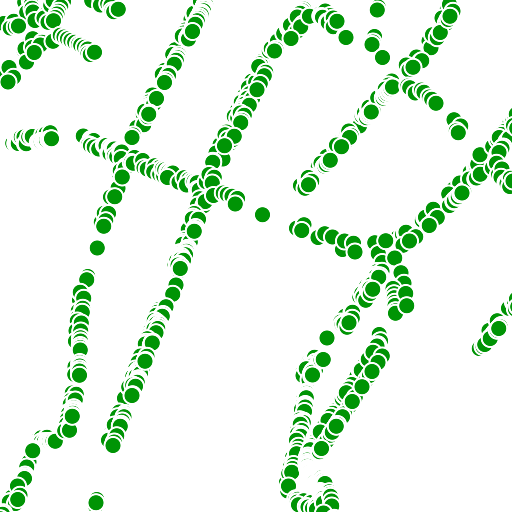
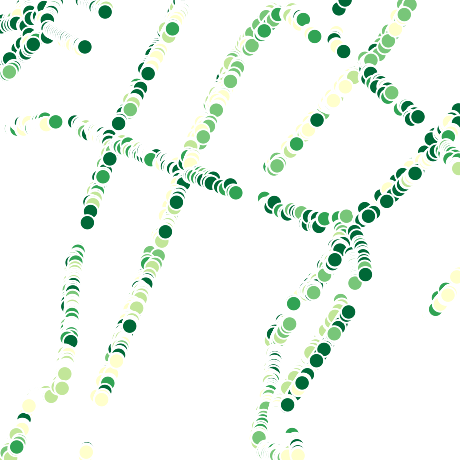
push

diff --git a/frontend/src/routes/map/data/entries/vector/mvt/polygon/plateau_lod2_mvt.ts b/frontend/src/routes/map/data/entries/vector/mvt/polygon/plateau_lod2_mvt.ts
@@ -1,5 +1,5 @@
-import { IMAGE_TILE_XYZ_SETS } from '$routes/constants';
-import { WEB_MERCATOR_JAPAN_BOUNDS, TOKYO_23KU_BBOX } from '$routes/map/data/location_bbox';
+import { MAP_IMAGE_BASE_PATH } from '$routes/constants';
+import { TOKYO_23KU_BBOX } from '$routes/map/data/location_bbox';
 
 import type { VectorEntry, TileMetaData } from '$routes/map/data/types/vector/index';
 
@@ -12,34 +12,35 @@ const entry: VectorEntry<TileMetaData> = {
 		url: 'https://indigo-lab.github.io/plateau-lod2-mvt/{z}/{x}/{y}.pbf'
 	},
 	metaData: {
-		name: '3D都市モデル（Project PLATEAU）東京都23区 LOD2',
+		name: '3D都市モデル 東京都23区 LOD2',
 		attribution: 'PLATEAU',
 		downloadUrl: 'https://github.com/indigo-lab/plateau-lod2-mvt?tab=readme-ov-file',
 		description:
 			'plateau-lod2-mvt by indigo-lab (国土交通省 Project PLATEAU のデータを加工して作成)',
 		location: '東京都',
-		tags: [],
+		tags: ['建物'],
 		minZoom: 10,
 		maxZoom: 16,
 		sourceLayer: 'bldg',
 		bounds: TOKYO_23KU_BBOX,
-		xyzImageTile: { x: 29099, y: 12902, z: 15 }
+		xyzImageTile: { x: 29099, y: 12902, z: 15 },
+		mapImage: `${MAP_IMAGE_BASE_PATH}/plateau_lod2_mvt.webp`
 	},
 	properties: {
 		keys: [],
 		titles: [
 			{
 				conditions: [],
-				template: '3D都市モデル（Project PLATEAU）東京都23区 LOD2'
+				template: '3D都市モデル 東京都23区 LOD2'
 			}
 		]
 	},
 	interaction: {
-		clickable: true
+		clickable: false
 	},
 	style: {
 		type: 'fill',
-		opacity: 0.7,
+		opacity: 1,
 		colors: {
 			key: '単色',
 			show: true,
@@ -49,7 +50,7 @@ const entry: VectorEntry<TileMetaData> = {
 					key: '単色',
 					name: '単色',
 					mapping: {
-						value: '#ff7f00',
+						value: '#a6cee3',
 						pattern: null
 					}
 				},
@@ -65,6 +66,23 @@ const entry: VectorEntry<TileMetaData> = {
 					}
 				}
 			]
+		},
+		extrusion: {
+			show: true,
+			height: {
+				key: 'z',
+				expressions: [
+					{
+						type: 'linear',
+						key: 'z',
+						name: '建物の高さ',
+						mapping: {
+							range: [0, 1000],
+							values: [0, 1000]
+						}
+					}
+				]
+			}
 		},
 		outline: {
 			show: false,

diff --git a/frontend/src/routes/map/utils/layers/index.ts b/frontend/src/routes/map/utils/layers/index.ts
@@ -580,6 +580,39 @@ const createOutLineLayer = (layer: LayerItem, style: PolygonStyle) => {
 	return outlineLayer;
 };
 
+// fillExtrusionレイヤーの作成
+const createFillExtrusionLayer = (
+	layer: LayerItem,
+	style: PolygonStyle
+): FillExtrusionLayerSpecification => {
+	const defaultStyle = style.default;
+	const color = getColorExpression(style.colors);
+	const colorExpression = getSelectedColorExpression(color);
+	const height = style.extrusion ? getNumberExpression(style.extrusion.height) : 0;
+	const fillExtrusionLayer: FillExtrusionLayerSpecification = {
+		...layer,
+		type: 'fill-extrusion',
+		paint: {
+			'fill-extrusion-height': height,
+			'fill-extrusion-opacity': style.opacity,
+			'fill-extrusion-color': style.colors.show ? colorExpression : '#00000000',
+			...(defaultStyle && defaultStyle.fillExtrusion ? defaultStyle.fillExtrusion.paint : {})
+		},
+		layout: {
+			...(defaultStyle && defaultStyle.fillExtrusion ? defaultStyle.fillExtrusion.layout : {})
+		},
+		// フィルター設定
+		...(() => {
+			if (defaultStyle?.fillExtrusion?.filter) {
+				return { filter: defaultStyle.fillExtrusion.filter };
+			}
+			return {};
+		})()
+	};
+
+	return fillExtrusionLayer;
+};
+
 // lineレイヤーの作成
 const createLineLayer = (layer: LayerItem, style: LineStringStyle): LineLayerSpecification => {
 	const defaultStyle = style.default;
@@ -751,10 +784,15 @@ const createVectorLayer = (
 	| LineLayerSpecification
 	| CircleLayerSpecification
 	| SymbolLayerSpecification
+	| FillExtrusionLayerSpecification
 	| undefined => {
 	switch (style.type) {
 		case 'fill': {
-			return createFillLayer(layer, style);
+			if (style.extrusion && style.extrusion.show) {
+				return createFillExtrusionLayer(layer, style);
+			} else {
+				return createFillLayer(layer, style);
+			}
 		}
 		case 'line': {
 			return createLineLayer(layer, style);

diff --git a/frontend/src/routes/map/data/entries/vector/pmtiles/point/tokyo_gairoju.ts b/frontend/src/routes/map/data/entries/vector/pmtiles/point/tokyo_gairoju.ts
@@ -27,8 +27,7 @@ const entry: VectorEntry<TileMetaData> = {
 		maxZoom: 14,
 		sourceLayer: 'tokyo_gairoju',
 		bounds: [139.5658198, 35.5473344, 139.9092201, 35.8170772],
-		xyzImageTile: { x: 14552, y: 6452, z: 14 },
-		mapImage: `${MAP_IMAGE_BASE_PATH}/tokyo_gairoju.webp`
+		xyzImageTile: { x: 14552, y: 6452, z: 14 }
 	},
 	properties: {
 		keys: [
@@ -41,6 +40,7 @@ const entry: VectorEntry<TileMetaData> = {
 			'種別',
 			'整理番号',
 			'路線名',
+			'通称道路名',
 			'経度',
 			'緯度'
 		],
@@ -60,10 +60,10 @@ const entry: VectorEntry<TileMetaData> = {
 	},
 	style: {
 		type: 'circle',
-		opacity: 0.5,
+		opacity: 0.7,
 		markerType: 'circle',
 		colors: {
-			key: '単色',
+			key: '樹高(m)',
 			show: true,
 			expressions: [
 				{
@@ -71,7 +71,17 @@ const entry: VectorEntry<TileMetaData> = {
 					key: '単色',
 					name: '単色',
 					mapping: {
-						value: '#009405'
+						value: '#33a02c'
+					}
+				},
+				{
+					type: 'step',
+					key: '樹高(m)',
+					name: '樹高ごとの色分け',
+					mapping: {
+						scheme: 'YlGn',
+						range: [0, 10],
+						divisions: 5
 					}
 				},
 				{

diff --git a/frontend/src/routes/map/data/types/vector/style.ts b/frontend/src/routes/map/data/types/vector/style.ts
@@ -223,6 +223,11 @@ export interface PolygonOutLine {
 	lineStyle: 'solid' | 'dashed';
 }
 
+export interface PolygonExtrusion {
+	show: boolean;
+	height: NumbersStyle;
+}
+
 export interface PointOutLine {
 	show: boolean;
 	color: string;
@@ -243,6 +248,7 @@ export interface LabelOutLine {
 export interface PolygonStyle extends BaseVectorStyle {
 	type: 'fill';
 	outline: PolygonOutLine;
+	extrusion?: PolygonExtrusion;
 	default?: PolygonDefaultStyle;
 }
 
